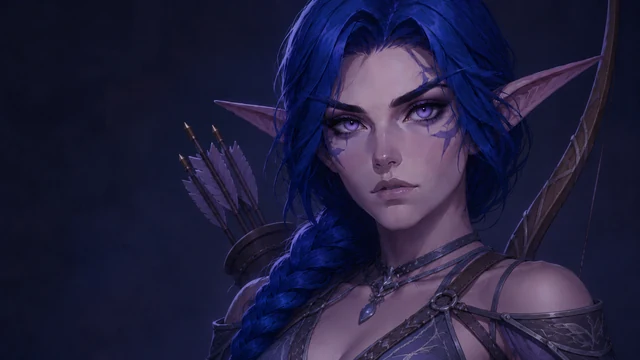
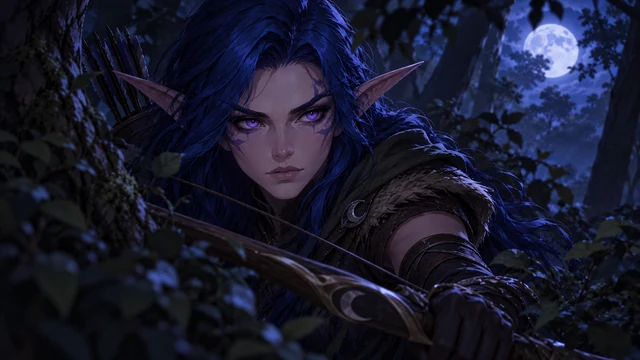
fix

diff --git a/STATUS.md b/STATUS.md
@@ -2,6 +2,12 @@
 
 Stand: 2026-10-24
 
+## Demetria: aktualisiertes Kundschafterinnenbild
+
+- Commit `37e9505` enthielt ausschließlich das neue Original `demetria_hunter.png`; die für Hintergrund und Galerievorschau verwendeten WebP-Dateien waren deshalb noch veraltet. Beide Ableitungen und ihr Manifest-Eintrag wurden lokal aktualisiert, das Original blieb unverändert.
+- Die vollständige Assetprüfung mit `--check` bestätigt 32 Originale und 60 Derivate einschließlich Abmessungen und Schriftzeichen. Aktueller Bild- und Schriftbestand ohne Audio: 73.092.483 Bytes Originale, 6.104.198 Bytes Derivate. Keine Code-, Text- oder Layoutänderung; keine erneute vollständige Testsuite für diesen reinen Bildtausch.
+- Die aktualisierten WebP-Dateien und das Manifest müssen noch gemeinsam committed und gepusht werden, damit die veröffentlichte Website ebenfalls den neuen Bildstand verwendet. Es wurde kein Commit, Push oder Deployment ausgeführt.
+
 ## Demetria: Nach der Schlacht
 
 - Fünftes Kapitel „Wenn die Waffen schweigen“ unter dem Anker `#after-battle` ergänzt. Der Text beschreibt nach Nutzervorgabe die Rettung Verwundeter sowie Demetrias Nähe, Trost und leisen Gesang für Sterbende. Die Zahl der begleiteten Kaldorei bleibt näherungsweise bei beinahe Hunderten; eine militärische oder priesterliche Zugehörigkeit und Heilmagie werden nicht ergänzt.
